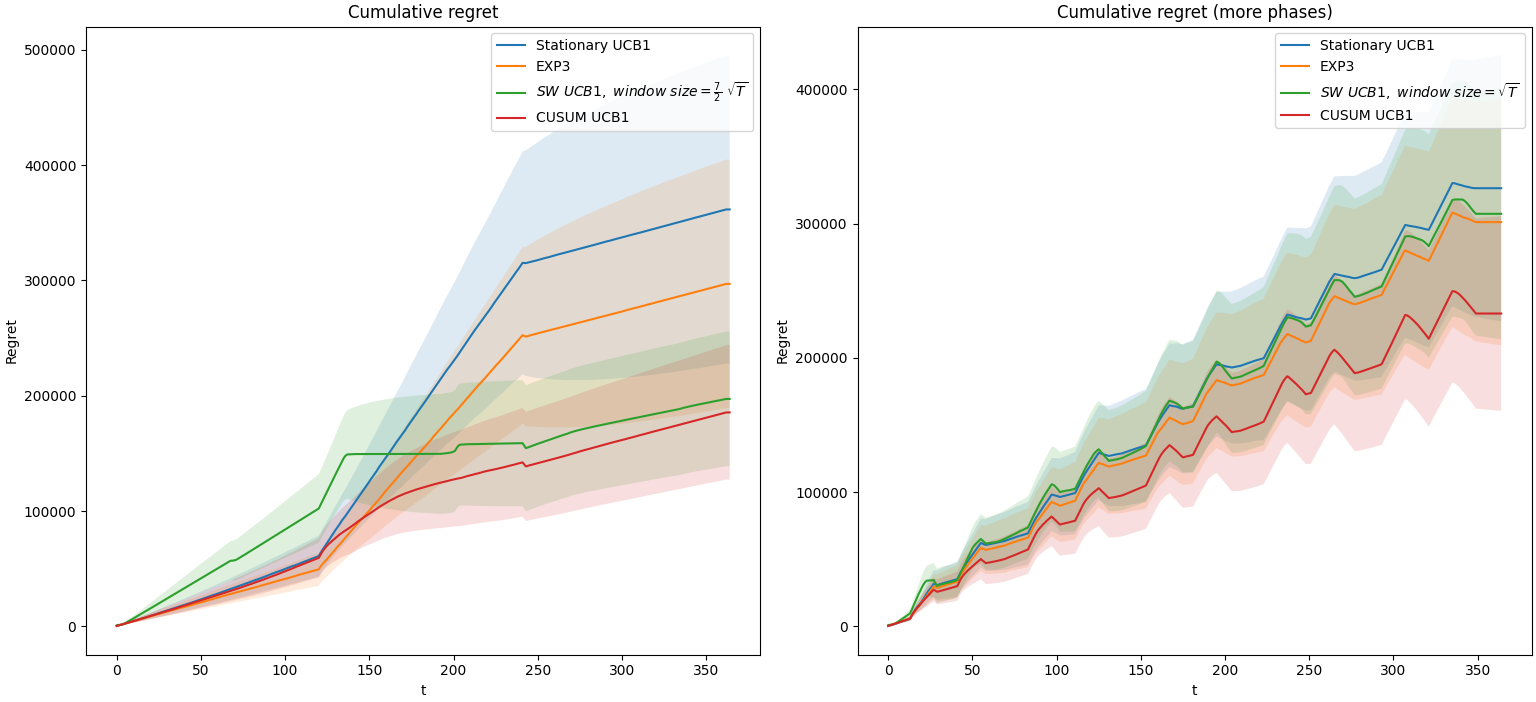
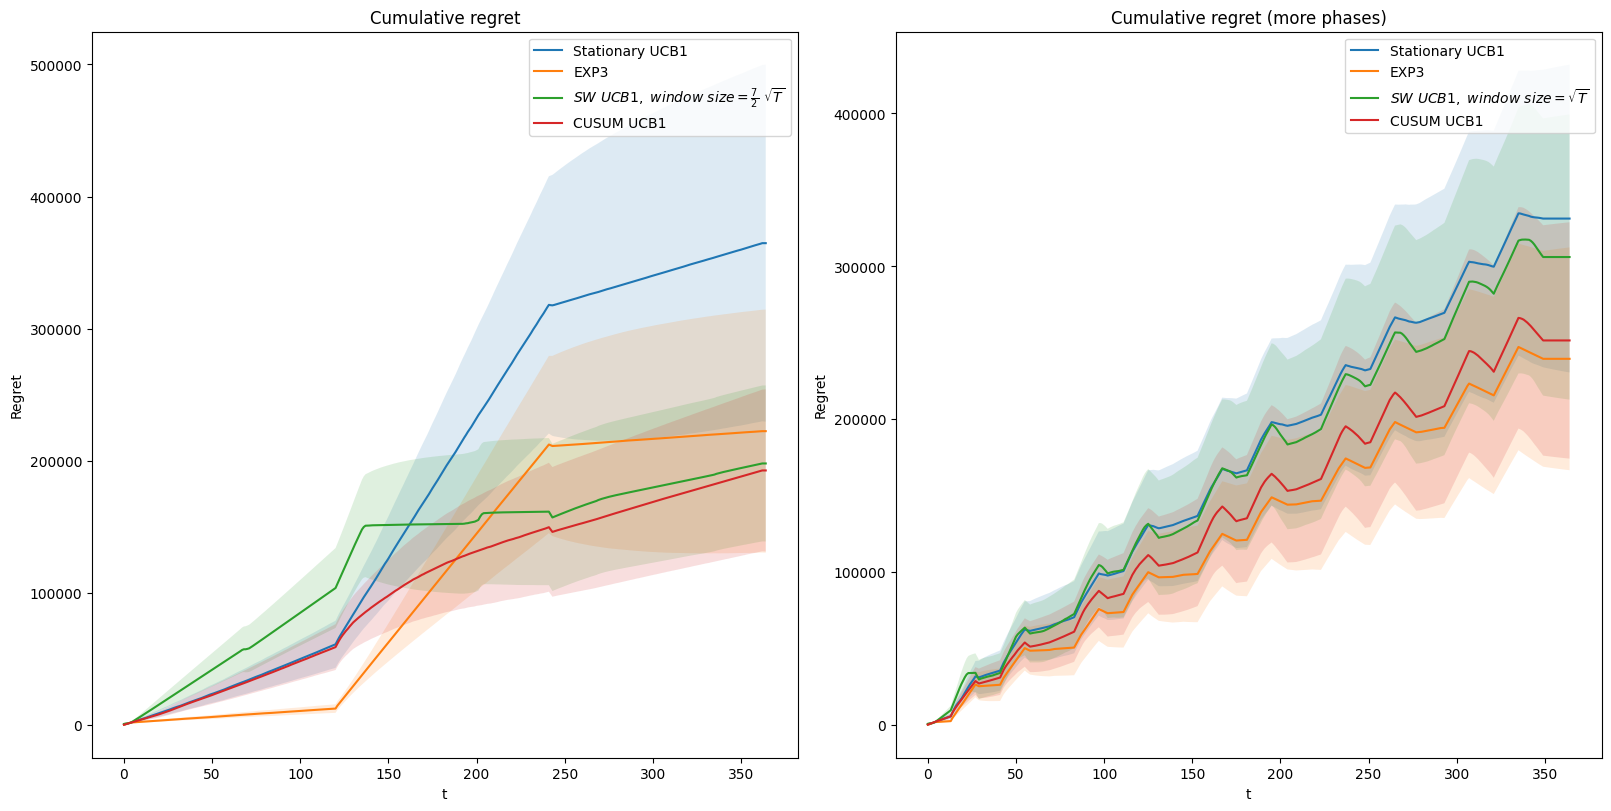
step6 (complete)

diff --git a/Learners.py b/Learners.py
@@ -467,8 +467,7 @@ class EXP3_Learner(UCB1_Learner_ns):
     
     def update(self, pulled_arm, reward):
         reward = self.margin[pulled_arm] * reward - self.clicks * self.cost
-        normalized_reward = reward / (self.margin[pulled_arm] * self.clicks - self.clicks * self.cost)
-        self.weights[pulled_arm] *= np.exp(normalized_reward * (self.gamma / self.n_arms))
+        self.weights[pulled_arm] *= np.exp(reward * (self.gamma / self.n_arms))
         self.weights /= np.sum(self.weights)
         self.t += 1
         super().update_observations(pulled_arm, reward)

diff --git a/step6.py b/step6.py
@@ -60,7 +60,7 @@ h = 2 * np.log(T)
 alpha = 0.1
 
 # EXP3 gamma
-gamma = 0.01
+gamma = 0.05
 
 rewards_experiment = [[] for _ in range(n_alg)]
 rewards_experiment_long = [[] for _ in range(n_alg)]
